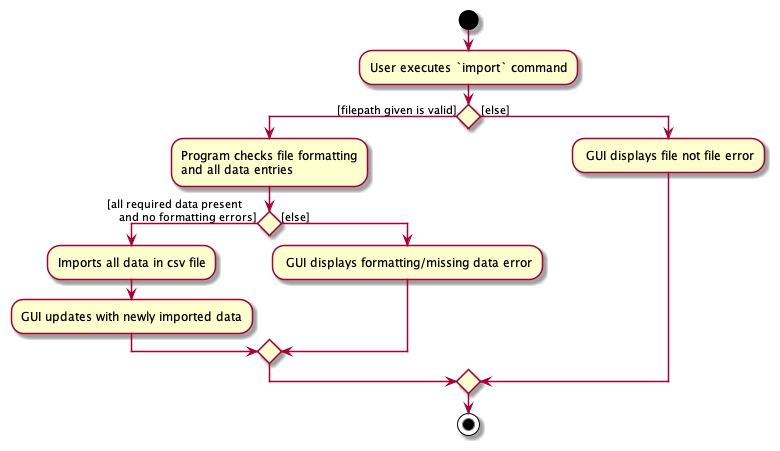
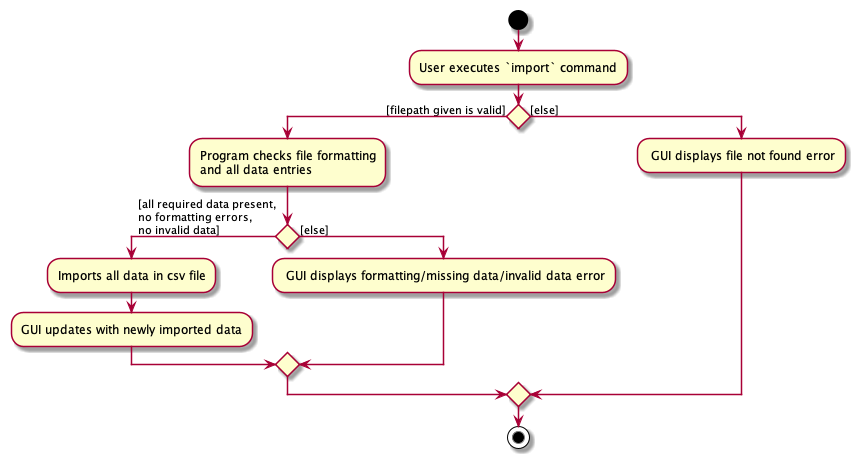
Update Import feature

Changed region(s): [[0.0, 0.031, 1.0, 0.9933]]

diff --git a/docs/DeveloperGuide.md b/docs/DeveloperGuide.md
@@ -262,25 +262,26 @@ The program detects the fields using column titles (taken as the first row of th
 
 Given below is an example usage scenario and how the import mechanism behaves at each step.
 
-Step 1. The user launches the application. HeRon initializes with the initial address book state or loaded with data from the previous session (if any).
+**Step 1.** The user launches the application. HeRon initializes with the initial address book state or loaded with data from the previous session (if any).
 
-Step 2. The user executes `import /toBeImported.csv` command to import the .csv file in the specified directory, which in this case, refers to the file `toBeImported.csv` in the root directory.
+**Step 2.** The user executes `import /toBeImported.csv` command to import the .csv file in the specified directory, which in this case, refers to the file `toBeImported.csv` in the root directory.
+
 <div markdown="span" class="alert alert-info">:information_source: **Note:** If the specified directory is not valid, the command fails to complete and an error message is returned. There will be no changes made to the current `AddressBook`.</div>
 
-Step 3. Program processes the .csv file, and creates a new `AddressBook`, and updates it with the entries in the file. The current existing `AddressBook` is replaced with the newly created one. The display panel is updated to show the first entry present in the csv file.
+**Step 3.** Program processes the .csv file. The first row is identified as the header row, which is used to determine which field of the PersonInput class the column represents. The remaining rows are parsed and PersonInput Objects are created and added into a List. Once done, the List of PersonInput Objects will be used to create a separate list of Person objects used to update the address book.
+
 <div markdown="span" class="alert alert-info">:information_source: **Note:** If there are entries with missing values in the required fields, the command fails to complete and an error message indicating the location of the error is returned. There will be no changes made to the current `AddressBook`.</div>
+
 <div markdown="span" class="alert alert-info">:information_source: **Note:** Data present in the imported file must adhere to respective requirements for each field. `Name`, `Email` and `Phone` fields cannot be the same as other entries. If duplicate values exist, the command fails to complete and an error message is returned. There will be no changes made to the current `AddressBook`</div>
 
-Step 4. The updated `AddressBook` would be saved as per the process after the execution of a command.
+**Step 4.** A new `AddressBook` is created, and updated it with the entries in the file. The current existing `AddressBook` is replaced with the newly created one. The display panel is updated to show the first entry present in the csv file.
+
+**Step 5.** The updated `AddressBook` would be saved as per the process after the execution of a command.
 
 The following sequence diagram shows how the import feature works:
 ![ImportSequenceDiagram](images/ImportSequenceDiagram.png)
-The reference frame for "Update GUI" is similar to the sequence diagram given in the section "Updating Info Panel Display".
 ![ImportProcessData](images/ImportProcessData.png)
-
-
-<div markdown="span" class="alert alert-info">:information_source: **Note:** The lifeline for `AddressBookParser`, `ImportCommandParser`, `ImportCommand` and `CommandResult` should end at the destroy marker (X) but due to a limitation of PlantUML, the lifeline reaches the end of diagram.</div>
-
+The reference frame for "Update GUI" is similar to the sequence diagram given in the section "Updating Info Panel Display".
 
 The following activity diagram summarizes what happens when a user uses the `import` command:
 ![ImportActivityDiagram](images/ImportActivityDiagram.png)
